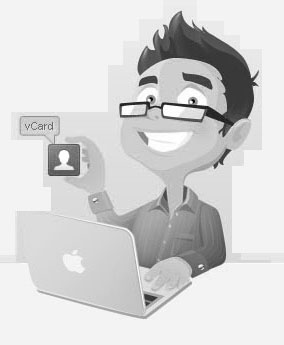
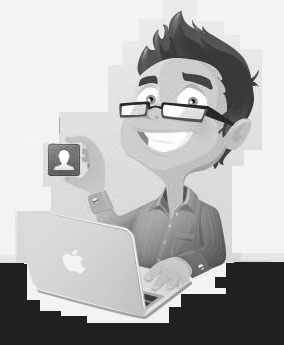
with psd

Changed region(s): [[0.0, 0.7536, 1.0, 1.0], [0.0563, 0.3188, 0.2254, 0.4348]]

diff --git a/index.html b/index.html
@@ -27,25 +27,18 @@
                     <li id="linkedin"></li>
                 </ul>
             </div>
+       </div>            
         
-            <div class="container" >
-                <div class="wrap cartoon"><img alt="harold kim - software engineer" src="images/start.jpg"></div>
-            </div>
-   
-            
-            
-
-
-            <div style="margin-top: 20px;text-align: center;">
-                <img alt="Service to create virtual business cards" src="http://www.craigmorrison.ca/images/blurb.png">
-            </div>
-
+       <div class="container" >
+            <div class="wrap cartoon"><img alt="harold kim - software engineer" src="images/start.jpg"></div>
         </div>
+   
+        <div class="wrap blurb">
+            <img alt="" src="http://www.craigmorrison.ca/images/blurb.png">
+        </div>            
 
-
-            
         <div id="start_button">
-            <img src="http://www.calmdigital.com/static/img/scroll.png" alt="start">
+            <img src="images/scroll.png" alt="start">
         </div>
         
 

diff --git a/css/style.css b/css/style.css
@@ -150,7 +150,7 @@ body { background: #2a2a2a; overflow-x: hidden; }
 
 #start_screen {
 	position: relative;
-	background: green;
+	background:#202020;
 	padding: 0;
     margin: 0;
 	outline: 0;
@@ -163,16 +163,6 @@ body { background: #2a2a2a; overflow-x: hidden; }
     background-color:#313131;
 }
 
-#start_screen .container {
-    width: 100%; 
-    height: 300px;   
-    background-color:#FFFFFF;
-}
-
-#start_screen .cartoon{
-    text-align:center;
-    padding-top:38px; 
-}
 
 #start_screen .social {
     background-color:#202020;
@@ -236,6 +226,39 @@ body { background: #2a2a2a; overflow-x: hidden; }
 #start_screen #youtube {
     background: url('../images/social/youtube.png') no-repeat 0 0;
 }
+
+#start_screen .container {
+    width: 100%; 
+    height: 300px;   
+    background-color:#FFFFFF;
+}
+
+#start_screen .cartoon{
+    text-align:center;
+    padding-top:38px; 
+}
+
+
+
+#start_screen .blurb {
+    margin-top:100px;
+    text-align:center;
+    background-color:#FFFFFF;
+}
+
+
+
+
+
+
+
+
+
+
+
+
+
+
 
  
 #start_button, .down_button { 
